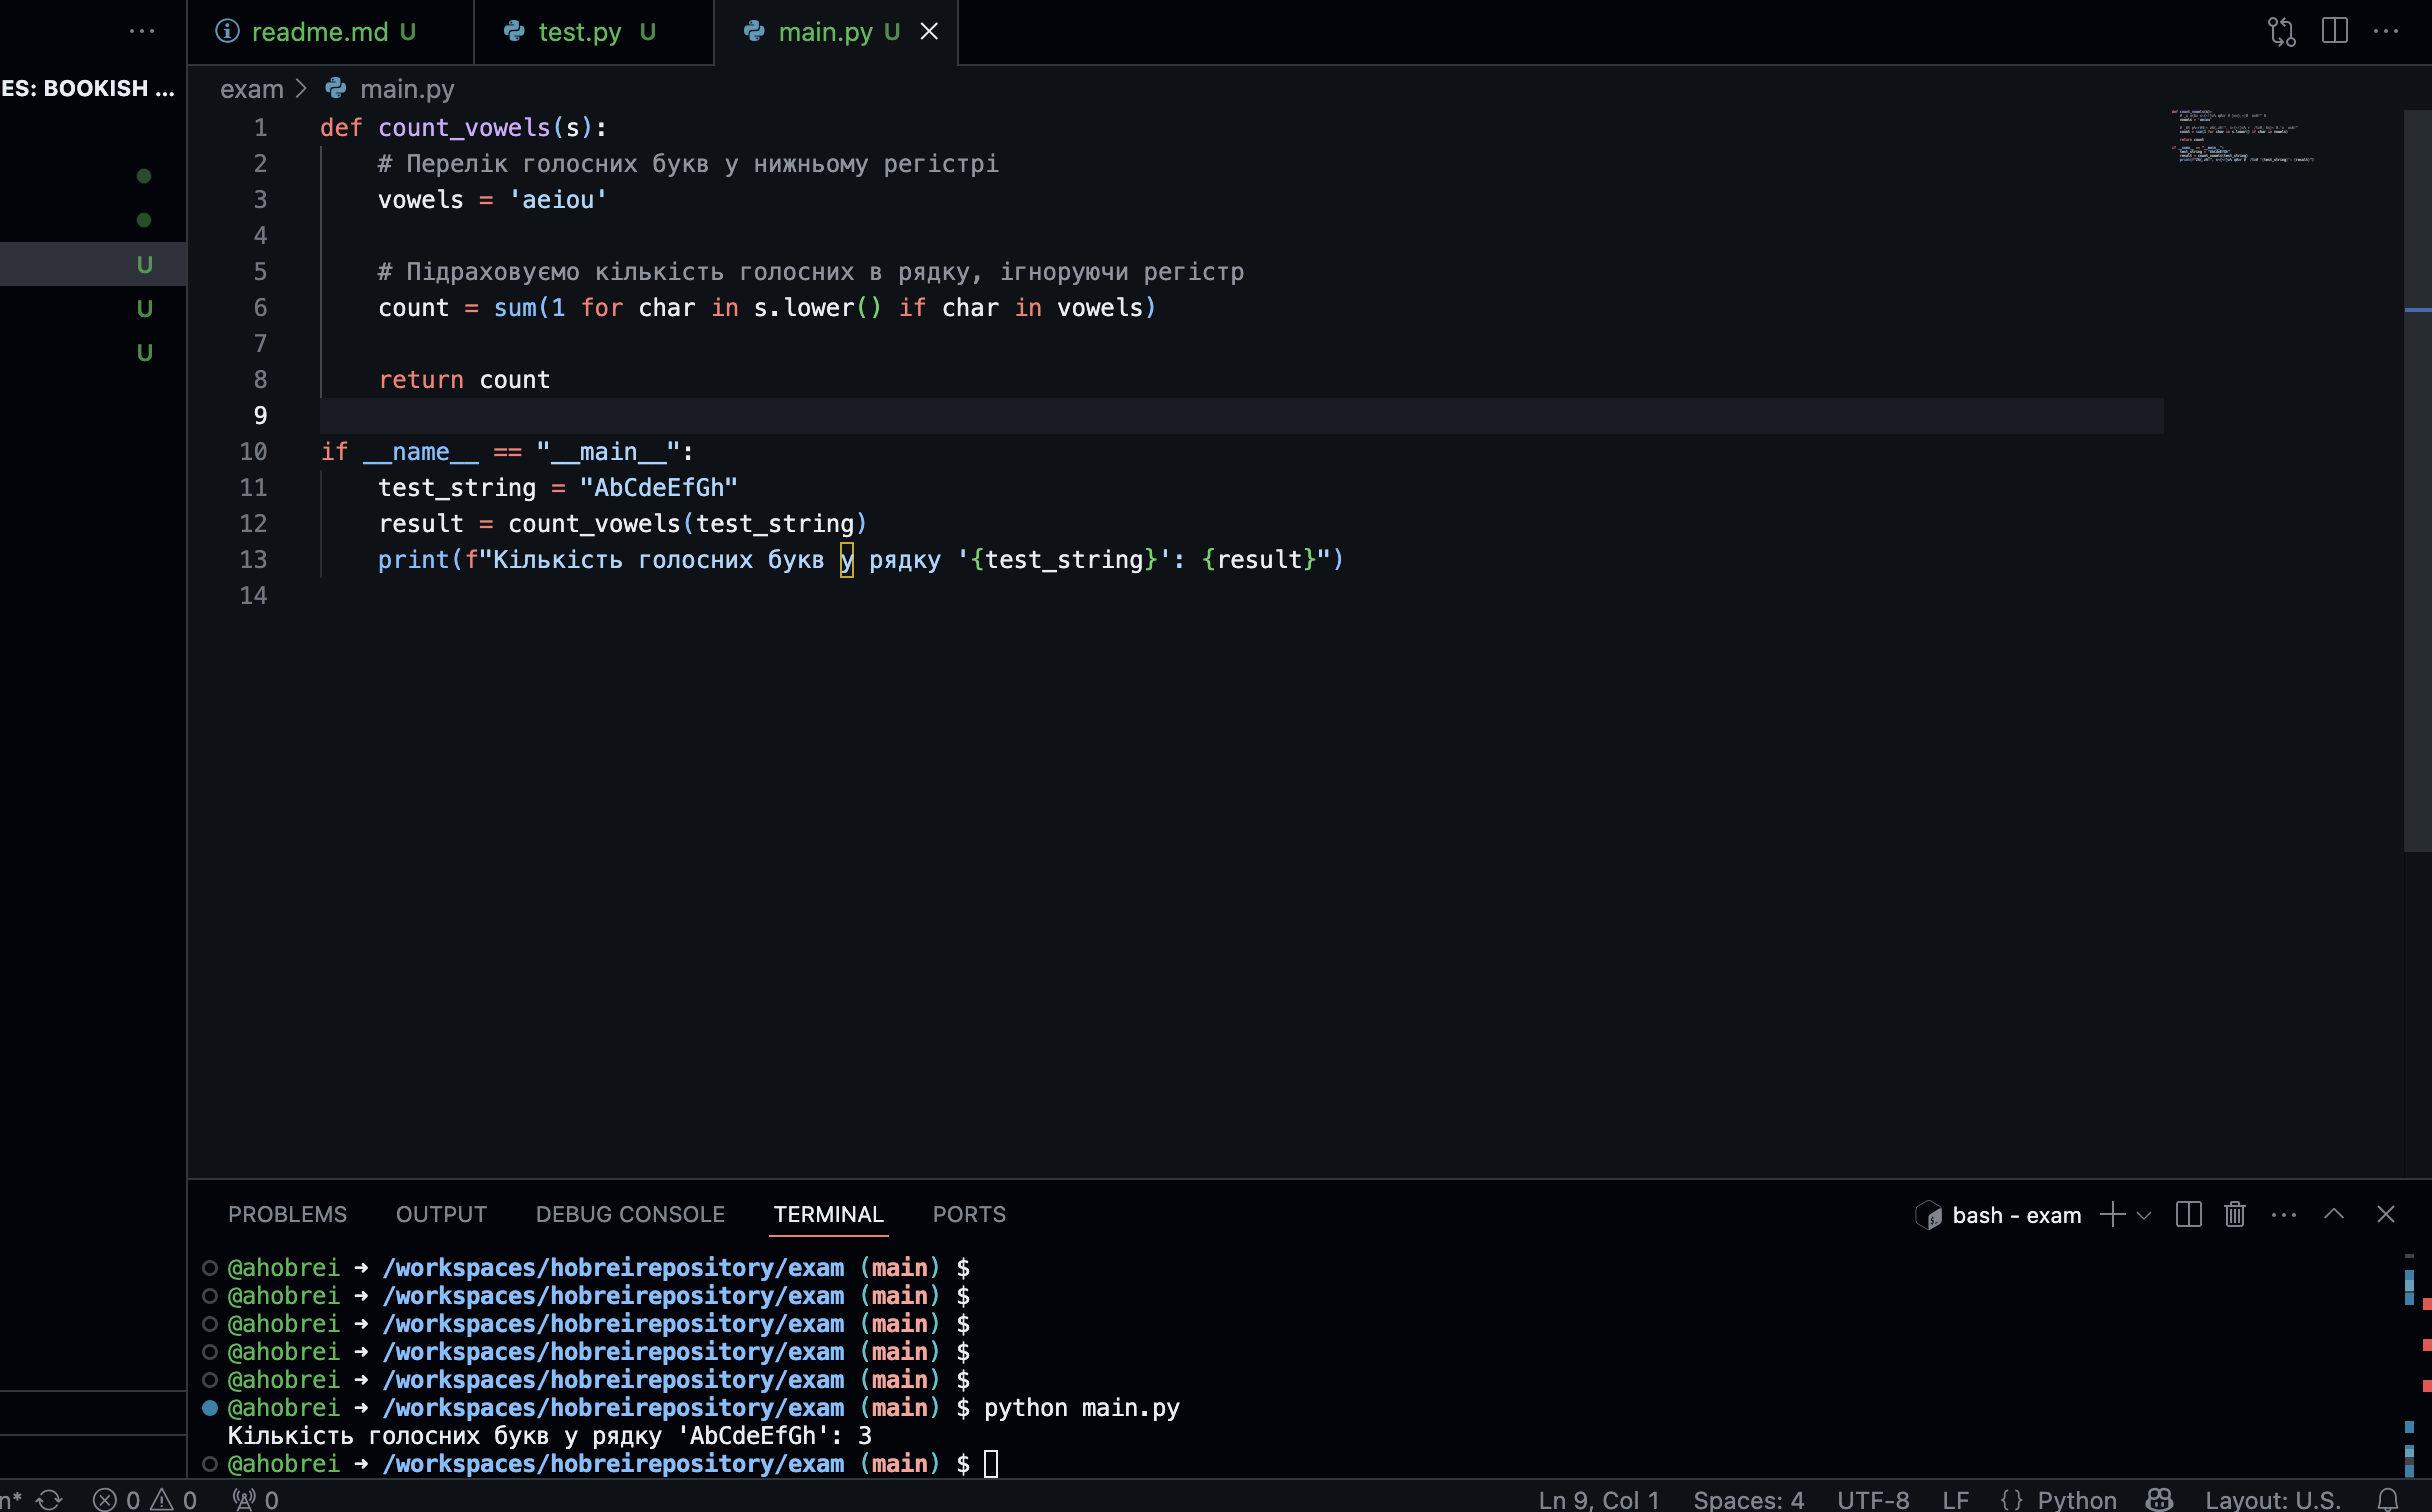
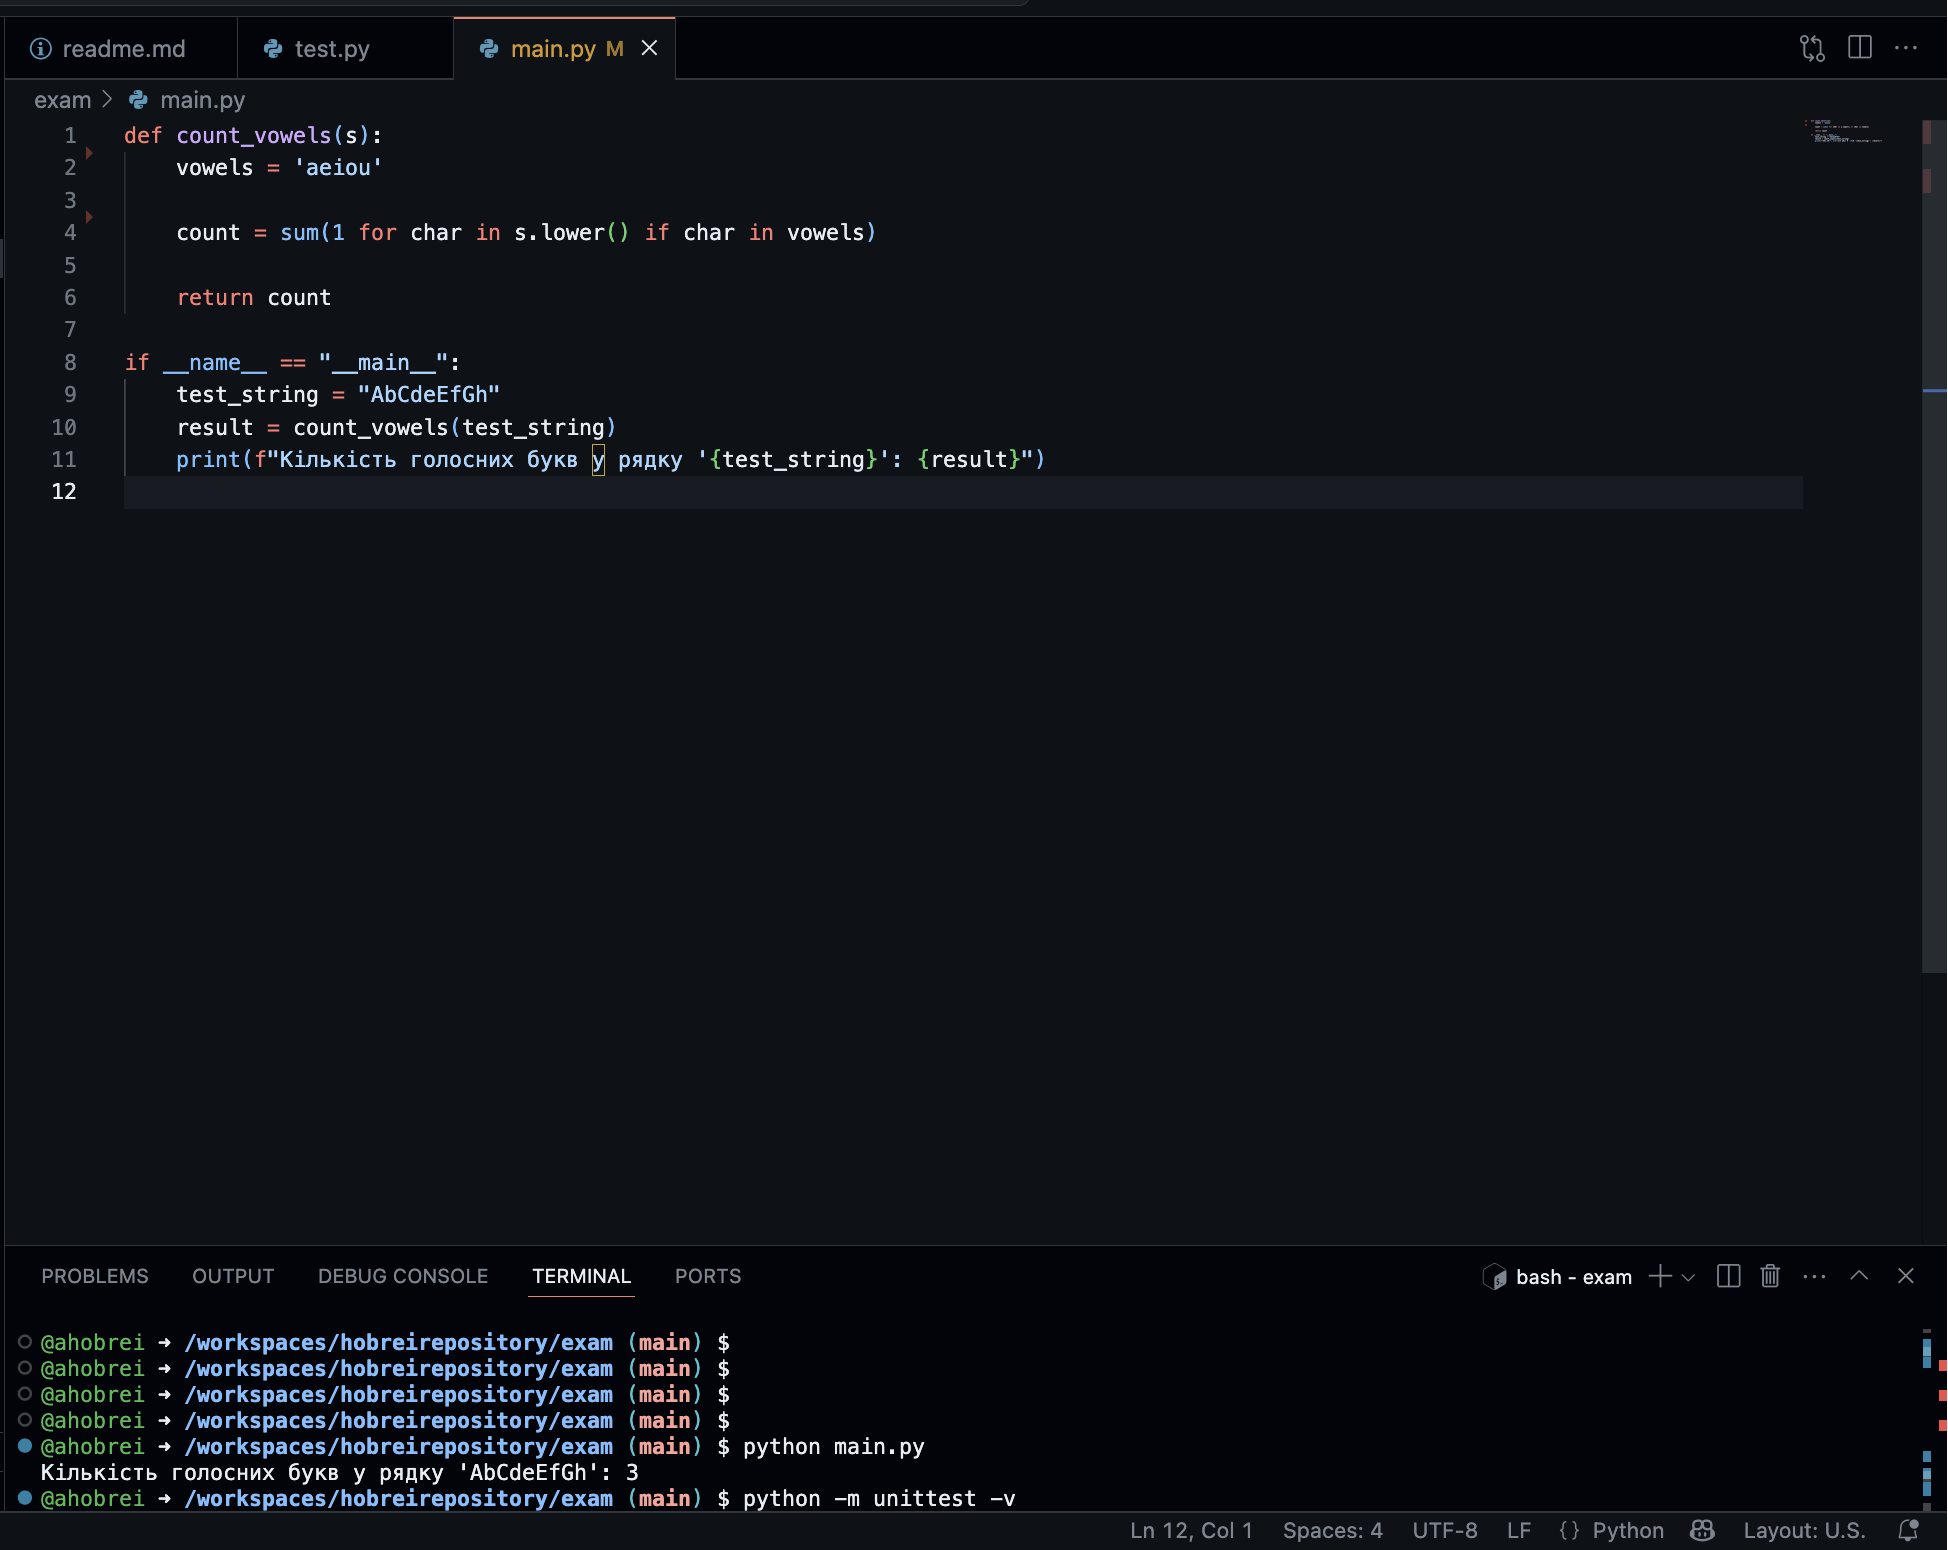
11

diff --git a/exam/main.py b/exam/main.py
@@ -1,8 +1,6 @@
 def count_vowels(s):
-    # Перелік голосних букв у нижньому регістрі
     vowels = 'aeiou'
     
-    # Підраховуємо кількість голосних в рядку, ігноруючи регістр
     count = sum(1 for char in s.lower() if char in vowels)
     
     return count
